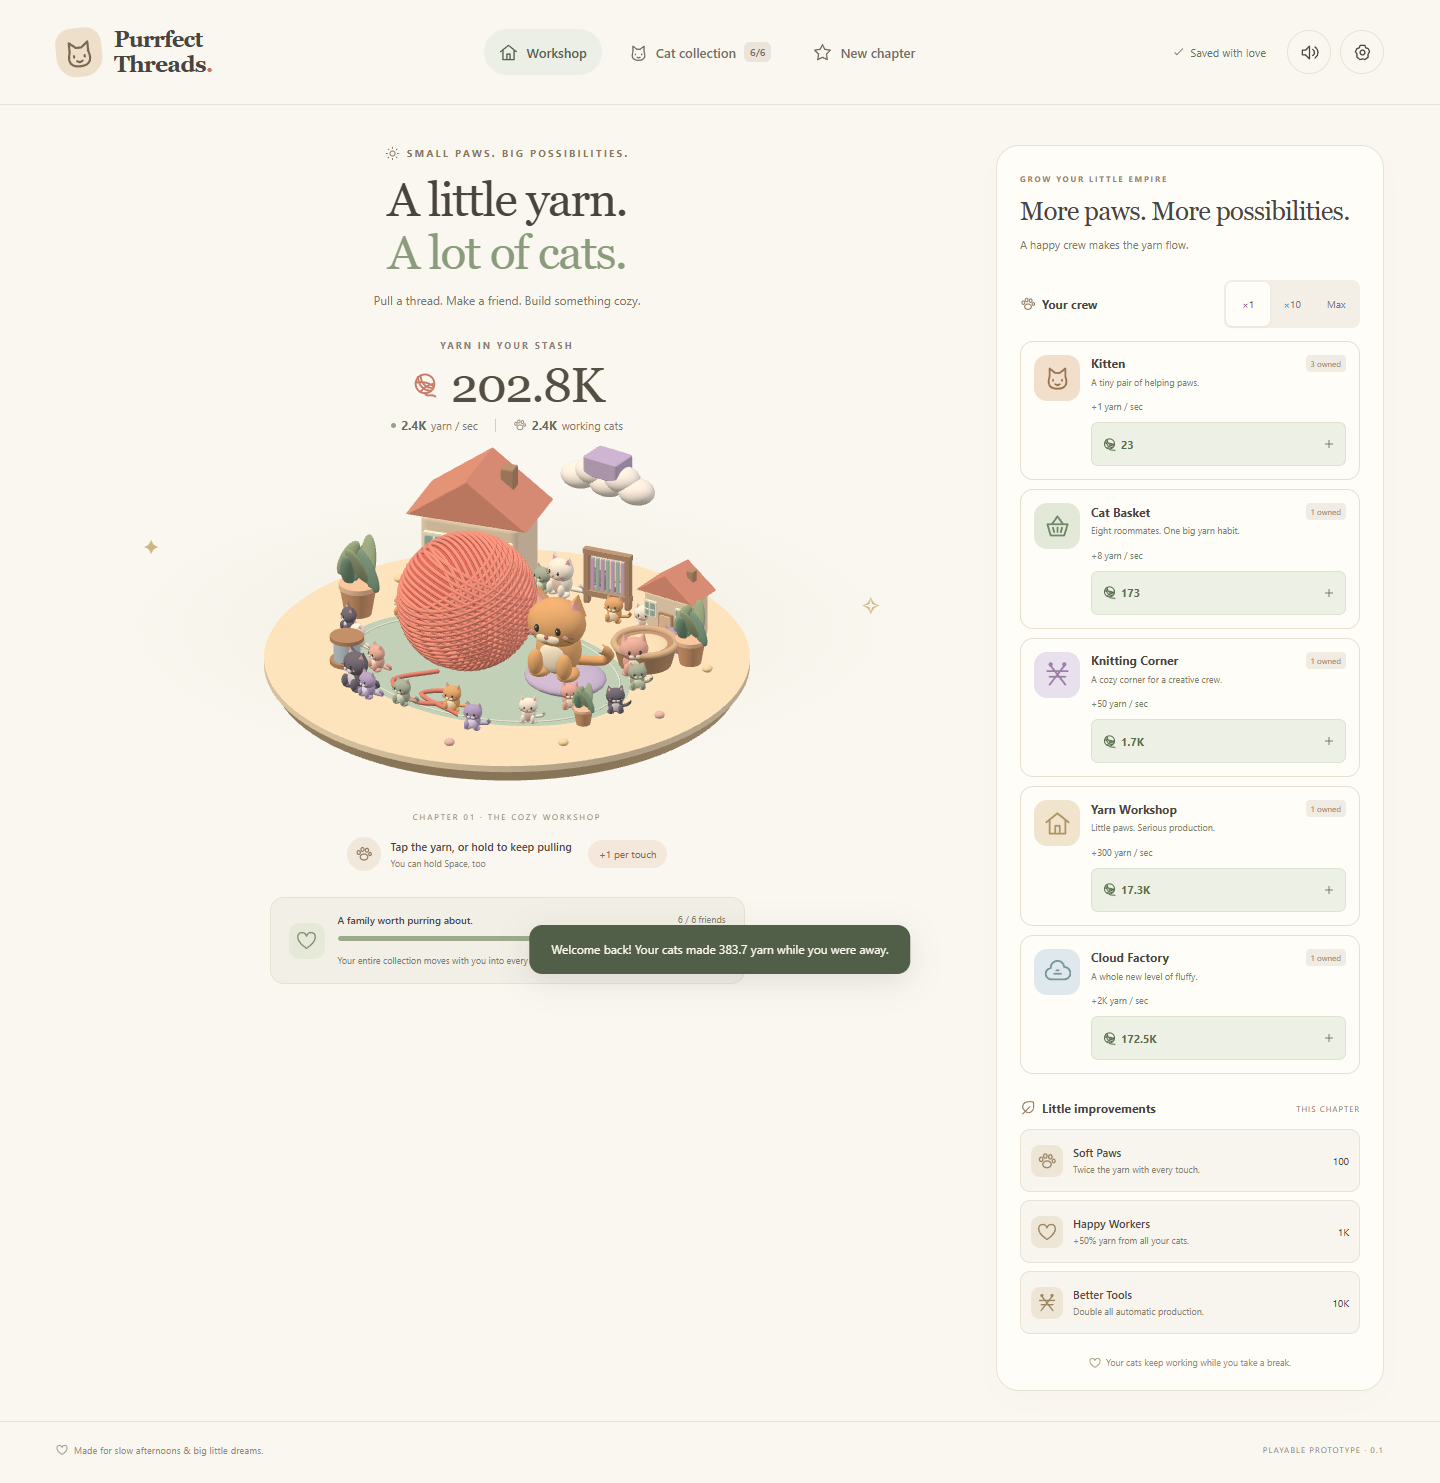
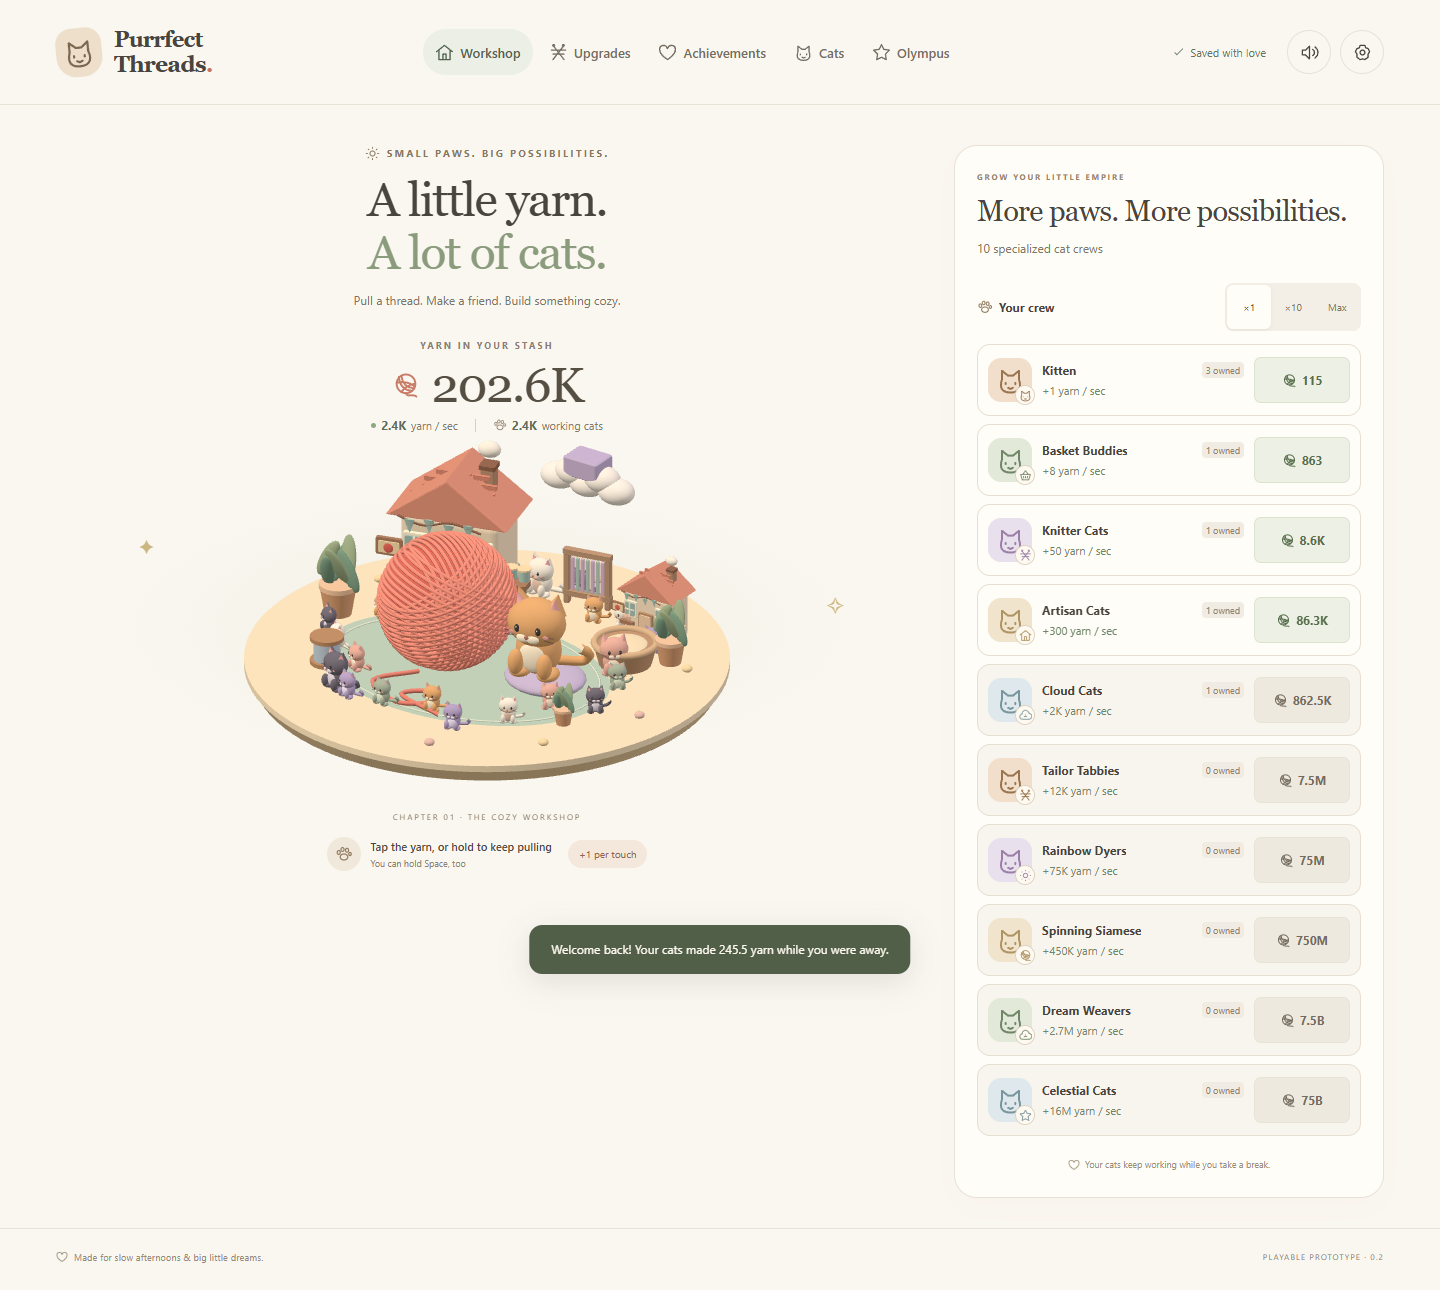
docs: record version 0.2 migration and verification

diff --git a/README.md b/README.md
@@ -1,4 +1,4 @@
-# Purrfect Threads
+# Purrfect Threads — 0.2
 
 A browser-first, single-player yarn clicker: pull a coral yarn ball, adopt a crew of cats, build a miniature textile workshop, and begin new chapters with permanent talents.
 
@@ -9,6 +9,16 @@ A browser-first, single-player yarn clicker: pull a coral yarn ball, adopt a cre
 3. Open **http://127.0.0.1:4180/**. Keep the terminal open while playing; Ctrl+C stops it.
 
 No package installation or internet connection is needed to play the included build. Do not open `dist/index.html` directly: browsers restrict module loading from `file://`. The launcher binds only to the local computer; it does not publish the game. Use a modern browser with WebGL2 and Web Locks support. The HTML clicker remains playable if 3D initialization fails.
+
+## What changed in 0.2
+
+- Ten specialized cat crews in compact, single-row cards. All ten targets remain visible.
+- The first kitten now costs 75 yarn: 75 valid initial pulls, about 15 seconds of held input at five actions per second. The original five base prices were scaled by five to preserve their relative price progression; the five additional late-game crews extend that curve. This is initial tuning, not validated retention balance.
+- Chapter improvements have their own cozy chalkboard tab. Permanent talents have an illustrated Mount Pawlympus with three cat statuettes.
+- A dedicated, filterable scrapbook contains 36 permanent achievements covering pulls, production, crews, upgrades, chapters, talents, companions, offline production, time, and bulk purchases. Badges are cosmetic; they do not grant hidden economic bonuses.
+- The workshop has original shingles, chimney details, bunting, a yarn sign, a workbench, spools, and flowers. No third-party art download was needed.
+
+Existing v1 saves migrate automatically without resetting balances, teams, talents, collection, or settings. New crews start at zero. Historic achievement counters not recorded in v1 cannot be reconstructed; migration awards only milestones supported by existing data and counts current upgrades as the known minimum. Newly earned badges and counters then persist through every chapter. Keep an export before moving between releases; **v2 exports are not backwards-compatible with v0.1**.
 
 ## Controls and progression
 
@@ -45,14 +55,14 @@ Browser tests use installed **Google Chrome** through Playwright's `chrome` chan
 | `src/ui/` | HTML controls, responsive styles, English copy, SVG icons |
 | `src/main.ts` | Single-writer lifecycle, audio/input/render integration |
 | `tests/`, `e2e/` | Unit, local-launcher, and browser regression tests |
-| `docs/verification.md` | Exact checks, measurements, and limitations |
+| `docs/verification-v02.md` | Exact checks, measurements, and limitations |
 
 English copy is collected in `src/ui/copy.ts` and the content catalog in `src/game/catalog.ts`. Original models share geometry/materials; only 24 cats render at once (12 in Battery saver mode). Additional workers are represented by teams, buildings, and counters. No downloaded art, font, or sound packs are needed.
 
 ## Prototype boundaries
 
-This is version 0.1, not a storefront release. Three prestige cycles are tested, but pacing, retention, and willingness to pay are **not validated**. Content is finite; production continues afterward. A defensive ceiling of 10,000 purchases per team type bounds bulk-buy work and imported saves. `break_infinity.js` supports very large approximate numbers, not arbitrary exact arithmetic.
+This is version 0.2, not a storefront release. Three prestige cycles are tested, but pacing, retention, and willingness to pay are **not validated**. Content is finite; production continues afterward. A defensive ceiling of 10,000 purchases per team type bounds bulk-buy work and imported saves. `break_infinity.js` supports very large approximate numbers, not arbitrary exact arithmetic.
 
 No ads, microtransactions, analytics, accounts, servers, cloud saves, installers, store signing, or publishing are included. Capacitor for Android/iOS and Electron for Windows/Steam are the planned next packaging routes, not implemented features. Real-phone performance testing and player playtests remain release gates.
 
-Third-party runtime notices are in `THIRD-PARTY-NOTICES.txt`. See [the architecture decision](docs/decisions/001-browser-first.md) and [verification results](docs/verification.md).
+Third-party runtime notices are in `THIRD-PARTY-NOTICES.txt`. See [the architecture decision](docs/decisions/001-browser-first.md) and [verification results](docs/verification-v02.md).

diff --git a/docs/verification-v02.md b/docs/verification-v02.md
@@ -1,0 +1,36 @@
+# Purrfect Threads 0.2 — verification
+
+## Requested changes
+
+All six browser comments are implemented: compact one-row hiring, ten crew types, a separate cozy upgrade board, a separate 36-achievement scrapbook, a three-statuette Olympus for permanent talents, 75-yarn first hire, and richer original scene geometry. Save migration preserves existing player progress.
+
+## Automated verification
+
+- `npm test`: 49 unit tests passed across six files.
+- `npm run build`: strict TypeScript check and production compilation passed. The lazy 3D chunk remains approximately 580 kB minified / 148 kB gzip; Vite's >500 kB warning is documented, not suppressed.
+- `npm run test:launcher`: one test passed.
+- `npm run test:e2e`: 32 browser tests passed, 16 scenarios each on desktop Chrome and Pixel 7 emulation.
+
+New tests cover the 74/75-pull affordability boundary, all ten purchases, 36 unique categorized achievements, command-triggered persistent unlocks, repeat upgrade rejection, counters, v1 migration, invalid v2 data, UTF-8 copy, compact row alignment/height, the separate board and Olympus, achievement filtering, and simultaneous achievement/action feedback.
+
+Regression tests were updated for the authorized price change, not removed. Existing lifecycle, save recovery, offline, touch/keyboard, bulk-equivalence, and three-prestige tests remain. Model tests now verify named detail groups and ensure geometry merging emits no warnings/errors. Tests were observed failing before new behavior/fixes, including the notification overwrite and a two-pixel narrow-layout overflow.
+
+An early attempt to run two Playwright commands concurrently collided in the shared trace output directory; this caused a test-artifact ENOENT unrelated to gameplay. Subsequent required browser checks run serially. The independent reviewer approved economics/migration, scene geometry, and the final UI fixes.
+
+## Visual and manual checks
+
+The live browser successfully loaded the old save into v2, retaining 74 working cats and the existing chapter/talent/collection state. The compact roster, chalkboard, and Olympus were visually inspected at the user's approximately 961×854 layout. No browser warning/error logs were observed after the final scene merge fix.
+
+`docs/screenshots/v02-*.png` contains seeded test fixtures for the roster, board, Olympus, and achievement filter. They demonstrate layout, not natural progression speed. Browser regression coverage includes 1440×1000, 961×854, 375×812, 812×375, and 320×568, keyboard navigation, and Pixel 7 touch emulation.
+
+## Current desktop performance sample
+
+On the same Windows PC (AMD Ryzen 5 3400G / Radeon RX 5500 XT), the in-app browser rendered 24 visible cats with the richer scene at **59.9 FPS average** over a 45.0459-second foreground interval. Actual frame metrics increased from 4,763 at 79,561.9 ms to 7,460 at 124,607.8 ms: 2,697 / 45.0459 = 59.87. The sample included opening the achievement scrapbook; scene counters reported 363 draw calls and 312,916 triangles. No browser warnings/errors were observed. This is an average sample, not a minimum-FPS or thermal benchmark.
+
+## Remaining limits
+
+- No physical phone has been measured. Mobile emulation does not validate the 30 FPS hardware target, battery life, or thermal performance.
+- The 75-pull opening and ten-tier economy are initial values. Retention, enjoyment, progression pacing, and commercial performance need player tests.
+- Original permanent talents and chapter upgrade effects remain unchanged. The first five crew identities retain stable save IDs despite friendlier display names.
+- No ads, payments, analytics, downloaded asset packs, network accounts, native packaging, or remote publication were introduced.
+- Previous v0.1 verification remains in `verification.md` as historical evidence, not a current-version performance claim.
